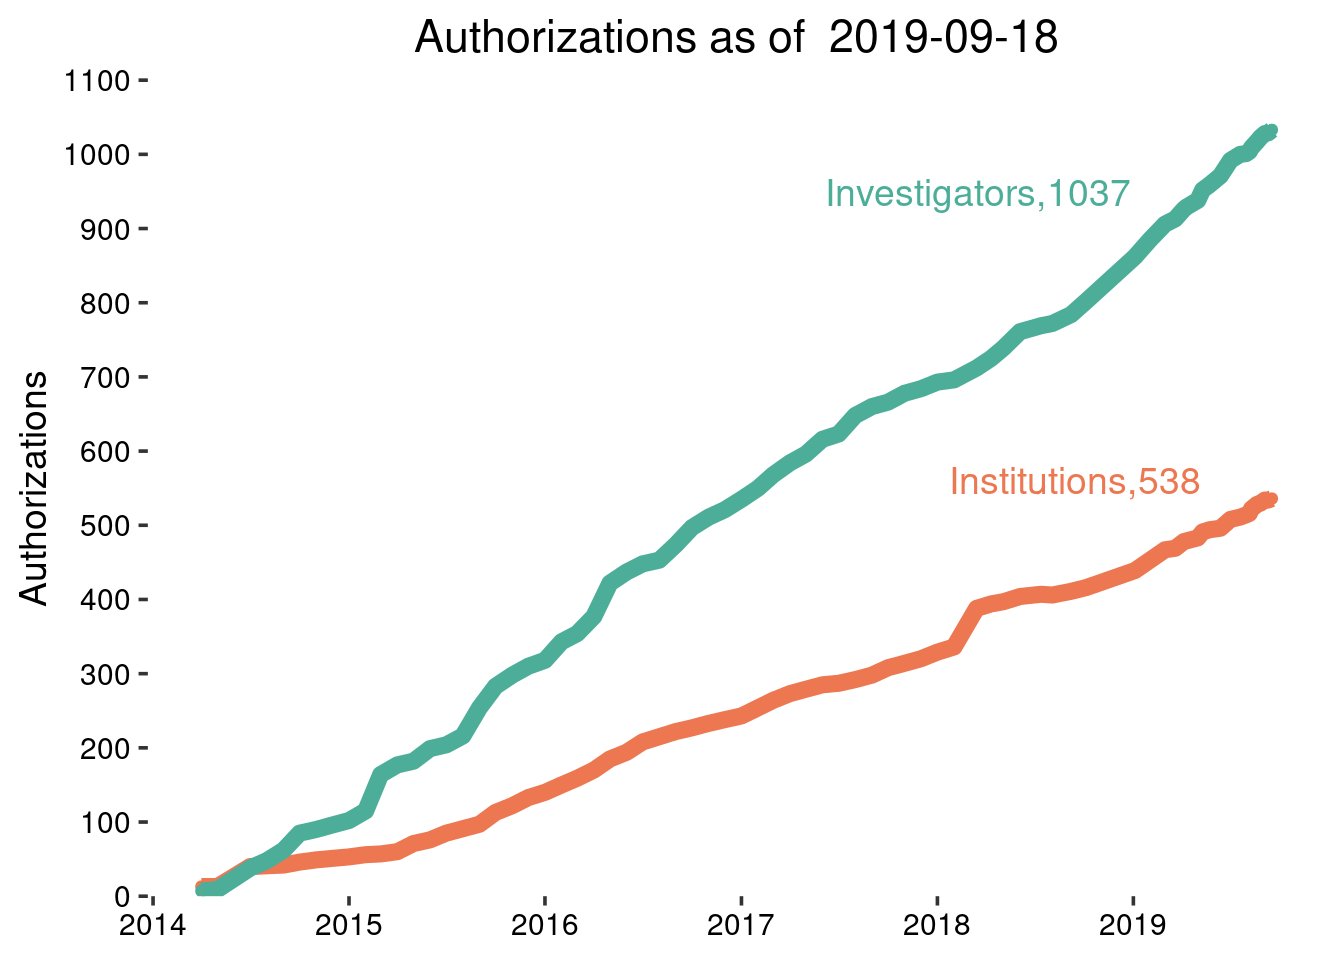
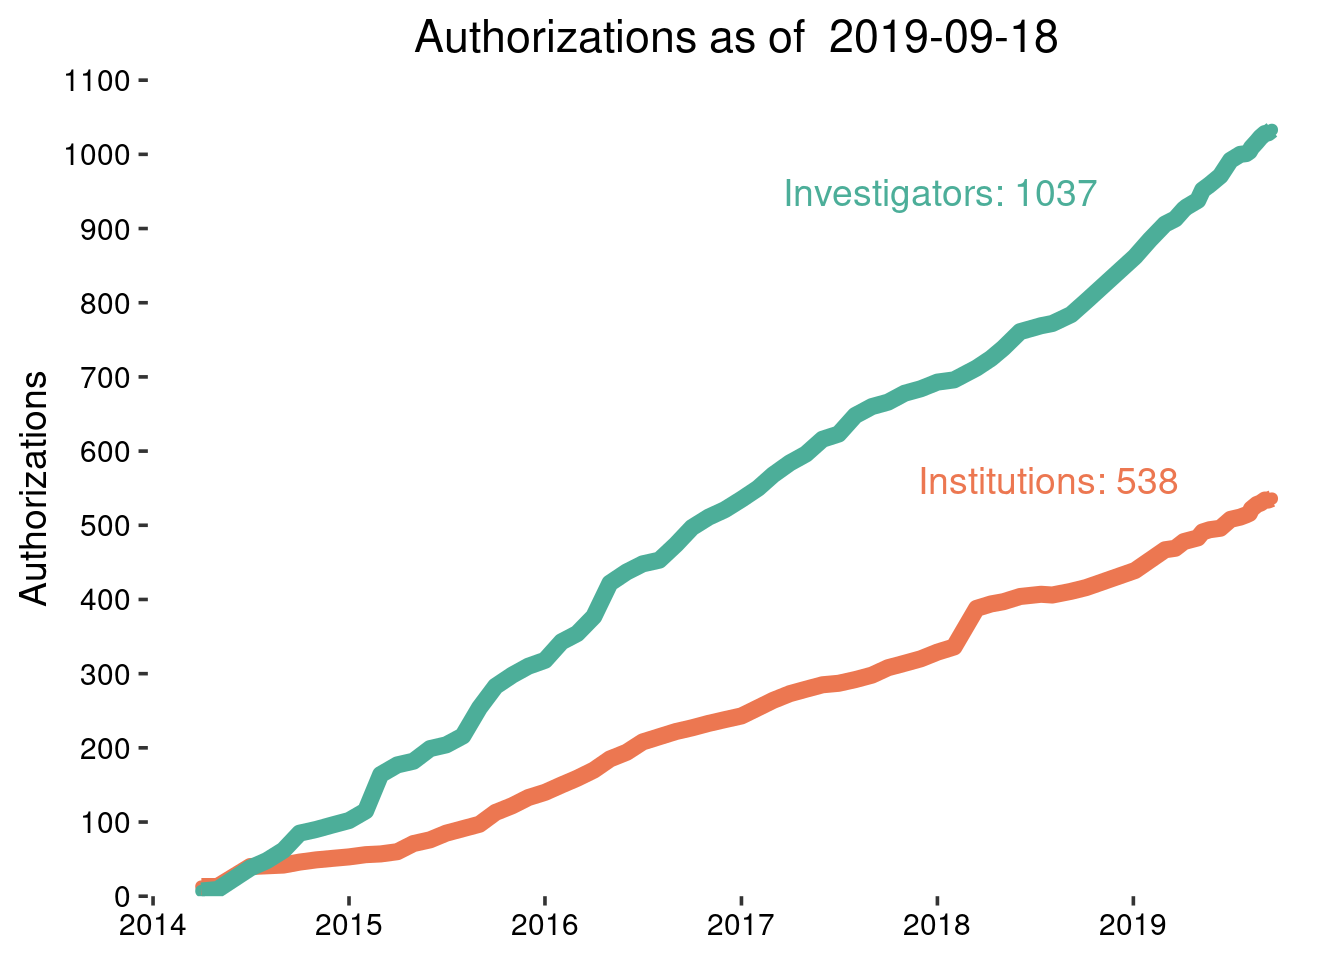
Fix labels on report

Changed region(s): [[0.6875, 0.4688, 0.9062, 0.5312], [0.5625, 0.1875, 0.8438, 0.2188]]

diff --git a/databrary_weekly_rpt_new_2019-09-18.html b/databrary_weekly_rpt_new_2019-09-18.html
@@ -263,7 +263,7 @@ div.tocify {
 
 <h1 class="title toc-ignore">Databrary Weekly</h1>
 <h4 class="author">Rick O. Gilmore &amp; Andrea Seisler</h4>
-<h4 class="date">2019-09-18 08:06:08</h4>
+<h4 class="date">2019-09-18 13:26:32</h4>
 
 </div>
 
@@ -307,7 +307,7 @@ updated_stats &lt;- updated_stats %&gt;%
 
 updated_stats$count &lt;- as.numeric(updated_stats$count)
 
-p &lt;- updated_stats %&gt;%
+users_plot &lt;- updated_stats %&gt;%
   ggplot(., aes(x = date, y = count, color = type, group = type)) +
   scale_x_date(date_labels = &quot;%Y&quot;, date_breaks = &#39;1 year&#39;) +
   geom_point() +
@@ -319,11 +319,9 @@ p &lt;- updated_stats %&gt;%
   scale_y_continuous(breaks = seq(0, round_any(max(updated_stats$count), 100, ceiling), 100), expand = c(0,0)) +
   coord_cartesian(ylim = c(0, round_any(max(updated_stats$count), 100, ceiling)))
 
-ggdraw(p) + 
-  draw_label(&quot;Investigators, &quot;, colour = color_teal, .7, .8) +
-  draw_label(max(new_stats$investigators), colour = color_teal, .81, .8) +
-  draw_label(&quot;Institutions, &quot;, colour = color_orange, .78, .5) +
-  draw_label(max(new_stats$institutions), colour = color_orange, .87, .5)</code></pre>
+ggdraw(users_plot) + 
+  draw_label(paste0(&quot;Investigators: &quot;, new_stats$investigators), colour = color_teal, .7, .8) +
+  draw_label(paste0(&quot;Institutions: &quot;, new_stats$institutions), colour = color_orange, .78, .5)</code></pre>
 <p><img src="databrary_weekly_rpt_new_2019-09-18_files/figure-html/db-inst-user-plot-1.png" width="672" /> <!-- Next, we update the Google Sheet if `params$update_gs` is TRUE. --> <!-- In the current context, `params$update_gs` == FALSE. --></p>
 <div id="new-institutions" class="section level2">
 <h2><span class="header-section-number">1.1</span> New Institutions</h2>
@@ -506,10 +504,8 @@ vols_plot &lt;- updated_vols %&gt;%
 
 
 ggdraw(vols_plot) + 
-  draw_label(&quot;Unshared, &quot;, colour = color_teal, .75, .85) +
-  draw_label(max(new_stats$datasets_total - new_stats$datasets_shared), colour = color_teal, .84, .85) +
-  draw_label(max(new_stats$datasets_shared), colour = color_orange, .72, .6) +
-  draw_label(&quot;Shared, &quot;, colour = color_orange, .65, .6)</code></pre>
+  draw_label(paste0(&quot;Unshared: &quot;, new_stats$datasets_total - new_stats$datasets_shared), colour = color_teal, .75, .85) +
+  draw_label(paste0(&quot;Shared: &quot;, new_stats$datasets_shared), colour = color_orange, .65, .6)</code></pre>
 <p><img src="databrary_weekly_rpt_new_2019-09-18_files/figure-html/db-vols-plot-1.png" width="672" /> <!-- Next, we update the Google Sheet if `params$update_gs` is TRUE. --></p>
 <pre class="r"><code>if (as.logical(params$update_gs)) {
   new_data &lt;- data_frame(date = Sys.Date(), 
@@ -572,6 +568,20 @@ Databrary URL
 <tbody>
 <tr>
 <td style="text-align:left;">
+A-n-T: Attention and Temperament in Infancy
+</td>
+<td style="text-align:left;">
+2015-04-16
+</td>
+<td style="text-align:left;">
+Perez-Edgar, Koraly
+</td>
+<td style="text-align:left;">
+<a href="https://nyu.databrary.org/volume/119" class="uri">https://nyu.databrary.org/volume/119</a>
+</td>
+</tr>
+<tr>
+<td style="text-align:left;">
 Learning Choice Check
 </td>
 <td style="text-align:left;">
@@ -610,20 +620,6 @@ Lew-Williams, Casey
 </td>
 <td style="text-align:left;">
 <a href="https://nyu.databrary.org/volume/979" class="uri">https://nyu.databrary.org/volume/979</a>
-</td>
-</tr>
-<tr>
-<td style="text-align:left;">
-MB2_
-</td>
-<td style="text-align:left;">
-2019-09-11
-</td>
-<td style="text-align:left;">
-Hamlin, Kiley
-</td>
-<td style="text-align:left;">
-<a href="https://nyu.databrary.org/volume/978" class="uri">https://nyu.databrary.org/volume/978</a>
 </td>
 </tr>
 </tbody>
@@ -686,10 +682,8 @@ citations_plot &lt;-
   
   
 ggdraw(citations_plot) + 
-  draw_label(&quot;Datavyu, &quot;, colour = color_teal, .8, .3) +
-  draw_label(max(datavyu_cites), colour = color_teal, .88, .3) +
-  draw_label(max(databrary_cites), colour = color_orange, .79, .7) +
-  draw_label(&quot;Databrary, &quot;, colour = color_orange, .7, .7)</code></pre>
+  draw_label(paste0(&quot;Datavyu: &quot;,datavyu_cites), colour = color_teal, .8, .3) +
+  draw_label(paste0(&quot;Databrary: &quot;,databrary_cites), colour = color_orange, .7, .7)</code></pre>
 <p><img src="databrary_weekly_rpt_new_2019-09-18_files/figure-html/db-dv-citations-plot-1.png" width="672" /></p>
 <pre class="r"><code>if (as.logical(params$update_gs)) {
   new_data &lt;- data_frame(date = Sys.Date(), 
